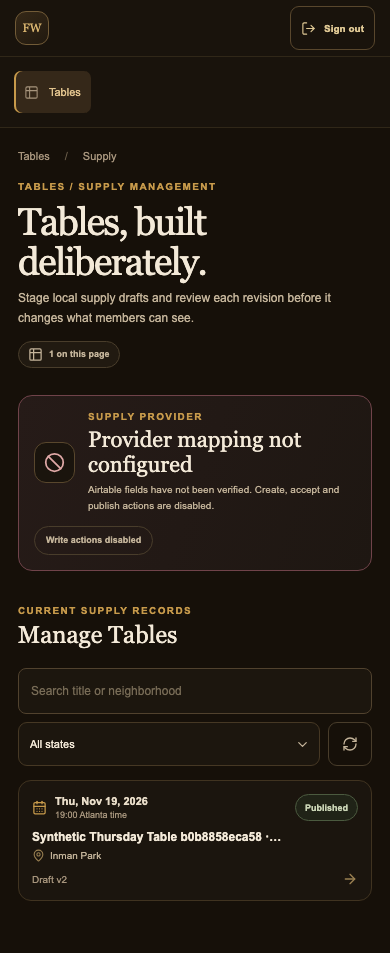
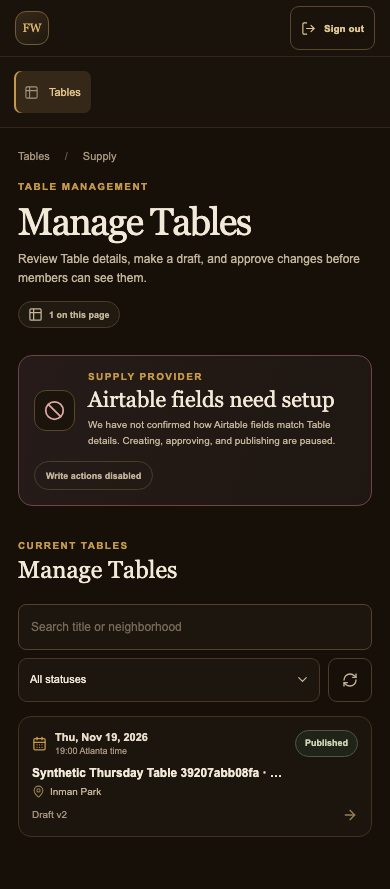
Bring W05 browser tests up to current copy; 3/3 pass

diff --git a/app/tests/browser/w05-supply-sync.spec.ts b/app/tests/browser/w05-supply-sync.spec.ts
@@ -82,9 +82,9 @@ test("W05 local fixture sync stages a durable candidate without moving last-good
     const page = await admin.newPage();
     await page.goto(`${appOrigin}/admin/tables`);
     await expect(page.getByRole("heading", { name: "Manage Tables" })).toBeVisible();
-    await expect(page.getByText("Synthetic provider fixture", { exact: true })).toBeVisible();
+    await expect(page.getByText("Local test data", { exact: true })).toBeVisible();
     const responsePromise = page.waitForResponse((response) => response.url().endsWith("/api/admin/supply/sync") && response.request().method() === "POST");
-    await page.getByRole("button", { name: "Run supply sync" }).click();
+    await page.getByRole("button", { name: "Check Airtable" }).click();
     const syncResponse = await responsePromise;
     expect(syncResponse.status()).toBe(200);
     const syncEnvelope = await syncResponse.json() as { ok?: boolean; data?: { runId?: string; state?: string; counts?: { tables?: number; venues?: number }; candidateRevisionId?: string | null } };
@@ -93,11 +93,11 @@ test("W05 local fixture sync stages a durable candidate without moving last-good
     expect(syncEnvelope.data?.candidateRevisionId).toMatch(/^[0-9a-f-]{36}$/i);
     expect(syncEnvelope.data?.counts).toMatchObject({ tables: 1, venues: 2 });
 
-    await expect(page.getByRole("heading", { name: "Candidates ready for draft review" })).toBeVisible();
+    await expect(page.getByRole("heading", { name: "Tables ready for review" })).toBeVisible();
     await expect(page.getByText(new RegExp(`Synthetic Thursday Table ${process.env.SUPPLY_FIXTURE_RUN_ID}`))).toBeVisible();
     const runId = syncEnvelope.data?.runId;
     await page.reload();
-    await expect(page.getByRole("heading", { name: "Candidates ready for draft review" })).toBeVisible();
+    await expect(page.getByRole("heading", { name: "Tables ready for review" })).toBeVisible();
     const afterReload = await admin.request.get(`${appOrigin}/api/admin/supply/sync`, { headers: { accept: "application/json" } });
     expect(afterReload.status()).toBe(200);
     const afterEnvelope = await afterReload.json() as { ok?: boolean; data?: { lastGoodPublished?: unknown; latestRun?: { runId?: string; state?: string } | null } };
@@ -106,7 +106,7 @@ test("W05 local fixture sync stages a durable candidate without moving last-good
     expect(afterEnvelope.data?.lastGoodPublished ?? null).toEqual(baselineLastGood);
     await page.screenshot({ path: resolve(screenshotDirectory, "w05-admin-supply-sync-desktop.png"), fullPage: true });
     await page.setViewportSize({ width: 390, height: 844 });
-    await expect(page.getByText("Synthetic provider fixture", { exact: true })).toBeVisible();
+    await expect(page.getByText("Local test data", { exact: true })).toBeVisible();
     expect(await page.evaluate(() => document.documentElement.scrollWidth <= window.innerWidth)).toBe(true);
     await page.screenshot({ path: resolve(screenshotDirectory, "w05-admin-supply-sync-390px.png"), fullPage: true });
     console.log("W05 fixture sync persisted staged state; last-good published pointer was unchanged.");
@@ -142,7 +142,7 @@ test("W05.2 admin can create, revise, accept and publish a local synthetic Table
 
     const page = await admin.newPage();
     await page.goto(`${appOrigin}/admin/tables`);
-    await expect(page.getByRole("heading", { name: "Candidates ready for draft review" })).toBeVisible();
+    await expect(page.getByRole("heading", { name: "Tables ready for review" })).toBeVisible();
     await expect(page.getByText(candidateTitle, { exact: true })).toBeVisible();
     let createBody = "";
     await page.route("**/api/supply/drafts", async (route) => {
@@ -151,7 +151,7 @@ test("W05.2 admin can create, revise, accept and publish a local synthetic Table
       await route.fulfill({ response, body: createBody });
     });
     const createResponse = page.waitForResponse((response) => response.url().endsWith("/api/supply/drafts") && response.request().method() === "POST");
-    await page.getByRole("button", { name: "Start draft review" }).click();
+    await page.getByRole("button", { name: "Review Table details" }).click();
     const created = await createResponse;
     const postedSource = JSON.parse(created.request().postData() ?? "{}") as { source?: { tableId?: string; revisionId?: string } };
     console.log("W05 candidate create identifiers", JSON.stringify({ posted: postedSource.source, candidate: candidate && { tableId: candidate.tableId, sourceRevisionId: candidate.sourceRevisionId } }));
@@ -342,12 +342,12 @@ test("W05.2 admin can create, revise, accept and publish a local synthetic Table
     await page.reload();
     expect((await faultInjectedListResponse).status()).toBe(200);
     expect(responseFaultInjected).toBe(true);
-    await expect(page.getByText("Provider mapping not configured", { exact: true })).toBeVisible();
-    await expect(page.getByText("Airtable fields have not been verified. Create, accept and publish actions are disabled.", { exact: true })).toBeVisible();
+    await expect(page.getByText("Airtable fields need setup", { exact: true })).toBeVisible();
+    await expect(page.getByText("We have not confirmed how Airtable fields match Table details. Creating, approving, and publishing are paused.", { exact: true })).toBeVisible();
     await expect(page.getByText(`${candidateTitle} · reviewed`, { exact: true })).toBeVisible();
     await expect(page.getByRole("button", { name: "Create draft" })).toHaveCount(0);
-    await expect(page.getByRole("button", { name: "Run supply sync" })).toHaveCount(0);
-    await expect(page.getByRole("button", { name: "Start draft review" })).toHaveCount(0);
+    await expect(page.getByRole("button", { name: "Check Airtable" })).toHaveCount(0);
+    await expect(page.getByRole("button", { name: "Review Table details" })).toHaveCount(0);
     await page.screenshot({ path: resolve(screenshotDirectory, "w05-admin-tables-disabled-unmapped-response-fault-injection-390px.png"), fullPage: true });
   } finally { await admin.close(); }
 });

diff --git a/app/docs/implementation/acceptance-ledger.md b/app/docs/implementation/acceptance-ledger.md
@@ -63,7 +63,7 @@ Rule applied: a scenario is `accepted` only when the real database or browser pa
 | A19, A20 | ready for verification | Seven-account ballot/reveal DB harness (windows at minute granularity, snapshots, immutability, own-only reveal, removal invalidation, retention) | Second-exact boundaries, concurrent submissions, real-stack run |
 | A21 | ready for verification | Ratings and conduct-report privacy, aggregates suppression, no audit text (DB harness) | Real-stack run |
 | A22 | ready for verification | Role gates covered in unit tests for every operations route and DB checks; earlier real-stack denials (W03, W05, W06) | Re-run W05; direct-API sweep of every new route against a real stack |
-| A23 | not re-verified | Earlier W05 DB evidence stands | W05 browser suite is stale |
+| A23 | not re-verified | Earlier W05 DB evidence stands | W05 browser suite re-run 3/3 on 2026-11-14 |
 | A24 | scoped down | You confirmed legacy data is waitlist rows only. Import generator, preflight, runbook written and tested; no live data touched | Authorized export and import; staging dry run |
 | A25, A34, A35 | ready for verification | Mock and real-stack screens at 390px/desktop; disabled placeholder nav replaced with working links | Person-led accessibility and side-by-side visual comparison (W12.3) |
 | A26–A31 | accepted | W03 runners re-run green on the fresh database | none new |

diff --git a/app/docs/implementation/w12-verification-receipts.md b/app/docs/implementation/w12-verification-receipts.md
@@ -30,7 +30,7 @@ Defect found by the replay and fixed: weekly-clone **undo** deleted cloned Table
 | W04 profile, private evidence, admin review | passed (2/2) |
 | W06 member Tables, requests, access gates, shared preview | passed (1/1) |
 | W06.5 Table invitation delivery and recovery | passed (1/1) |
-| W05 supply sync, Table management, weekly clone | **not passing**: the tests predate the admin navigation and copy changes (they look for a sync panel and strings that no longer exist on `/admin/tables`). The product is not known to be broken, but it is not re-verified. Airtable sync is out of launch scope; Table management and weekly clone are in scope and need their tests brought up to date. |
+| W05 supply sync, Table management, weekly clone | **passing** (2026-11-14): `node scripts/run-w05-browser.mjs`, 3/3, after updating test strings to the current copy (no product change). Real stack, fixture provider only; Airtable remains disabled. |
 
 Stale test strings (copy edits made after the tests were written) were corrected in the W03, W06, W06.5 and roster mock tests. One W03 assertion that no downstream tables existed yet was changed to the current schema.
 
